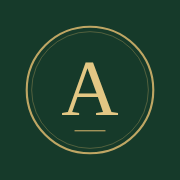
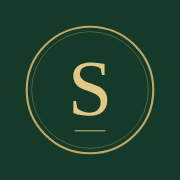
Új név: Súgj! (felület, ikon, emailek)
Claude-Session: https://claude.ai/code/session_01VcJuR22YfYFuR4auoZ2VMA

Changed region(s): [[0.3333, 0.3333, 0.6667, 0.6667]]

diff --git a/src/lib/email/jobs.ts b/src/lib/email/jobs.ts
@@ -7,7 +7,7 @@ import { layout, plainText, type Line } from './templates';
 
 type Admin = ReturnType<typeof createServiceClient>;
 
-const FOOTER = 'Ezt a levelet az Ajándoki küldte. Az emlékeztetőket a Profil oldalon kapcsolhatod ki.';
+const FOOTER = 'Ezt a levelet a Súgj! app küldte. Az emlékeztetőket a Profil oldalon kapcsolhatod ki.';
 
 async function emailsById(admin: Admin): Promise<Map<string, string>> {
   const map = new Map<string, string>();
@@ -75,7 +75,7 @@ export async function runDailyReminders(now = new Date()) {
       heading: entries.length === 1 ? entries[0].title : 'Közelgő alkalmak',
       intro: 'Egy kis emlékeztető, hogy semmi ne csússzon el:',
       lines: entries.map(entryLine),
-      cta: { label: 'Megnyitom az Ajándokit', href: `${appUrl()}/ma` },
+      cta: { label: 'Megnyitom a Súgj! appot', href: `${appUrl()}/ma` },
       footer: FOOTER,
     };
     if (await sendEmail({ to, subject: content.heading, html: layout(content), text: plainText(content) })) sent++;

diff --git a/src/lib/email/templates.ts b/src/lib/email/templates.ts
@@ -16,7 +16,7 @@ export function layout(opts: { heading: string; intro?: string; lines?: Line[]; 
 <table role="presentation" width="100%" cellpadding="0" cellspacing="0" style="background:#f6f2e8"><tr><td align="center" style="padding:24px 12px">
 <table role="presentation" width="100%" cellpadding="0" cellspacing="0" style="max-width:520px;background:#fffdf7;border:1px solid #e3dac6;border-radius:14px">
 <tr><td style="background:#163a2a;border-radius:14px 14px 0 0;padding:22px 28px">
-  <div style="font-size:12px;letter-spacing:4px;text-transform:uppercase;color:#d2b26a">Ajándoki</div>
+  <div style="font-size:12px;letter-spacing:4px;text-transform:uppercase;color:#d2b26a">Súgj!</div>
 </td></tr>
 <tr><td style="padding:28px">
   <h1 style="margin:0 0 6px;font-family:Georgia,serif;font-weight:500;font-size:24px;color:#1c4532">${esc(opts.heading)}</h1>

diff --git a/src/app/layout.tsx b/src/app/layout.tsx
@@ -8,10 +8,10 @@ const inter = Inter({ variable: "--font-inter", subsets: ["latin", "latin-ext"] 
 const fraunces = Fraunces({ variable: "--font-fraunces", subsets: ["latin", "latin-ext"] });
 
 export const metadata: Metadata = {
-  title: "Ajándoki – a meglepetés biztonságban van",
+  title: "Súgj! – a meglepetés biztonságban van",
   description: "Kívánságlisták, titkos foglalás és ajándékhúzás a családnak és a barátoknak.",
-  applicationName: "Ajándoki",
-  appleWebApp: { capable: true, title: "Ajándoki", statusBarStyle: "default" },
+  applicationName: "Súgj!",
+  appleWebApp: { capable: true, title: "Súgj!", statusBarStyle: "default" },
   formatDetection: { telephone: false },
 };
 

diff --git a/src/app/page.tsx b/src/app/page.tsx
@@ -3,7 +3,7 @@ export default function Home() {
     <main className="flex flex-1 flex-col">
       <section className="flex flex-1 flex-col justify-center bg-[#132f23] px-6 py-20 text-[#f3ead3]">
         <div className="mx-auto flex w-full max-w-xl flex-col gap-7">
-          <p className="text-xs uppercase tracking-[0.3em] text-[#d2b26a]">Ajándoki</p>
+          <p className="text-xs uppercase tracking-[0.3em] text-[#d2b26a]">Súgj!</p>
           <h1 className="text-4xl leading-tight text-[#f3ead3] sm:text-5xl">A meglepetés biztonságban van.</h1>
           <span className="ornament !w-16" aria-hidden />
           <p className="text-lg leading-relaxed text-[#f3ead3]/80">

diff --git a/src/app/(app)/layout.tsx b/src/app/(app)/layout.tsx
@@ -8,7 +8,7 @@ export default async function AppLayout({ children }: LayoutProps<'/'>) {
     <div className="flex min-h-full flex-1 flex-col md:flex-row">
       <aside className="hidden w-60 shrink-0 flex-col gap-6 border-r border-border bg-bg p-6 md:flex">
         <Link href="/ma" className="flex flex-col gap-2">
-          <span className="font-display text-2xl text-primary">Ajándoki</span>
+          <span className="font-display text-2xl text-primary">Súgj!</span>
           <span className="ornament" aria-hidden />
         </Link>
         <NavLinks orientation="vertical" />

diff --git a/src/app/(app)/sorsolas/[id]/page.tsx b/src/app/(app)/sorsolas/[id]/page.tsx
@@ -4,7 +4,7 @@ import { requireProfile } from '@/lib/auth';
 import { Button, Card, SecretBadge } from '@/components/ui';
 import { addExclusion, deleteDraw, performDraw, removeExclusion, resetDraw } from '../actions';
 
-export const metadata = { title: 'Titkos Mikulás – Ajándoki' };
+export const metadata = { title: 'Titkos Mikulás – Súgj!' };
 
 const huf = new Intl.NumberFormat('hu-HU', { style: 'currency', currency: 'HUF', maximumFractionDigits: 0 });
 const dateFmt = new Intl.DateTimeFormat('hu-HU', { year: 'numeric', month: 'long', day: 'numeric' });

diff --git a/supabase/templates/confirm-signup.html b/supabase/templates/confirm-signup.html
@@ -1,6 +1,6 @@
-<h2>Belépés az Ajándokiba</h2>
+<h2>Belépés a Súgj! appba</h2>
 <p>A belépőkódod:</p>
 <p style="font-size:30px;font-weight:bold;letter-spacing:6px;font-family:monospace">{{ .Token }}</p>
-<p>Írd be ezt a kódot az Ajándokiban, vagy kattints ide:
+<p>Írd be ezt a kódot a Súgj! appban, vagy kattints ide:
   <a href="{{ .SiteURL }}/auth/confirm?token_hash={{ .TokenHash }}&type=email">Belépés</a></p>
 <p style="color:#6b6475">Ha nem te kérted, nyugodtan hagyd figyelmen kívül ezt a levelet.</p>

diff --git a/supabase/templates/magic-link.html b/supabase/templates/magic-link.html
@@ -1,6 +1,6 @@
-<h2>Belépés az Ajándokiba</h2>
+<h2>Belépés a Súgj! appba</h2>
 <p>A belépőkódod:</p>
 <p style="font-size:30px;font-weight:bold;letter-spacing:6px;font-family:monospace">{{ .Token }}</p>
-<p>Írd be ezt a kódot az Ajándokiban, vagy kattints ide:
+<p>Írd be ezt a kódot a Súgj! appban, vagy kattints ide:
   <a href="{{ .SiteURL }}/auth/confirm?token_hash={{ .TokenHash }}&type=email">Belépés</a></p>
 <p style="color:#6b6475">Ha nem te kérted, nyugodtan hagyd figyelmen kívül ezt a levelet.</p>

diff --git a/src/app/globals.css b/src/app/globals.css
@@ -1,7 +1,7 @@
 @import "tailwindcss";
 
 /* =========================================================================
-   Ajándoki design tokenek (lásd tervdokumentum, 7. fejezet)
+   Súgj! design tokenek (lásd tervdokumentum, 7. fejezet)
    Elegáns, ünnepélyes paletta: mélyzöld + arany, elefántcsont alap.
    A "secret" (sötét arany) szín jelöl minden olyan elemet, amit a megajándékozott SOHA nem lát.
    ========================================================================= */

diff --git a/src/app/(app)/listam/page.tsx b/src/app/(app)/listam/page.tsx
@@ -6,7 +6,7 @@ import { archiveOwnItem } from './actions';
 const huf = new Intl.NumberFormat('hu-HU', { style: 'currency', currency: 'HUF', maximumFractionDigits: 0 });
 const PRIORITY = { 3: 'Nagyon szeretném', 2: 'Örülnék neki', 1: 'Ha belefér' } as Record<number, string>;
 
-export const metadata = { title: 'Listám – Ajándoki' };
+export const metadata = { title: 'Listám – Súgj!' };
 
 export default async function MyListPage() {
   const { supabase, user } = await requireProfile();

diff --git a/src/app/(app)/csoportok/forms.tsx b/src/app/(app)/csoportok/forms.tsx
@@ -56,7 +56,7 @@ export function InvitePanel({ groupId, groupName }: { groupId: string; groupName
   }
 
   const share = async () => {
-    const text = `Csatlakozz a(z) „${groupName}” csoporthoz az Ajándokiban! Meghívókód: ${state.code}`;
+    const text = `Csatlakozz a(z) „${groupName}” csoporthoz a Súgj! appban! Meghívókód: ${state.code}`;
     if (navigator.share) {
       await navigator.share({ title: 'Meghívó', text, url: link }).catch(() => {});
     } else {

diff --git a/src/lib/email/send.ts b/src/lib/email/send.ts
@@ -21,7 +21,7 @@ export async function sendEmail(email: Email): Promise<boolean> {
       method: 'POST',
       headers: { 'api-key': apiKey, 'content-type': 'application/json', accept: 'application/json' },
       body: JSON.stringify({
-        sender: { email: from, name: 'Ajándoki' },
+        sender: { email: from, name: 'Súgj!' },
         to: [{ email: email.to }],
         subject: email.subject,
         htmlContent: email.html,
